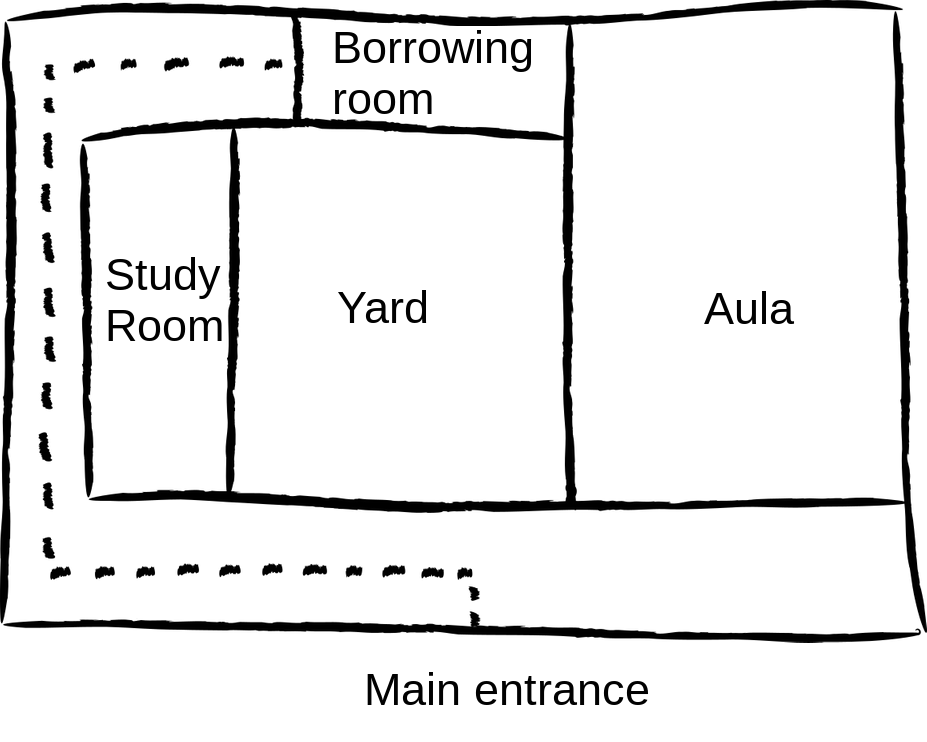
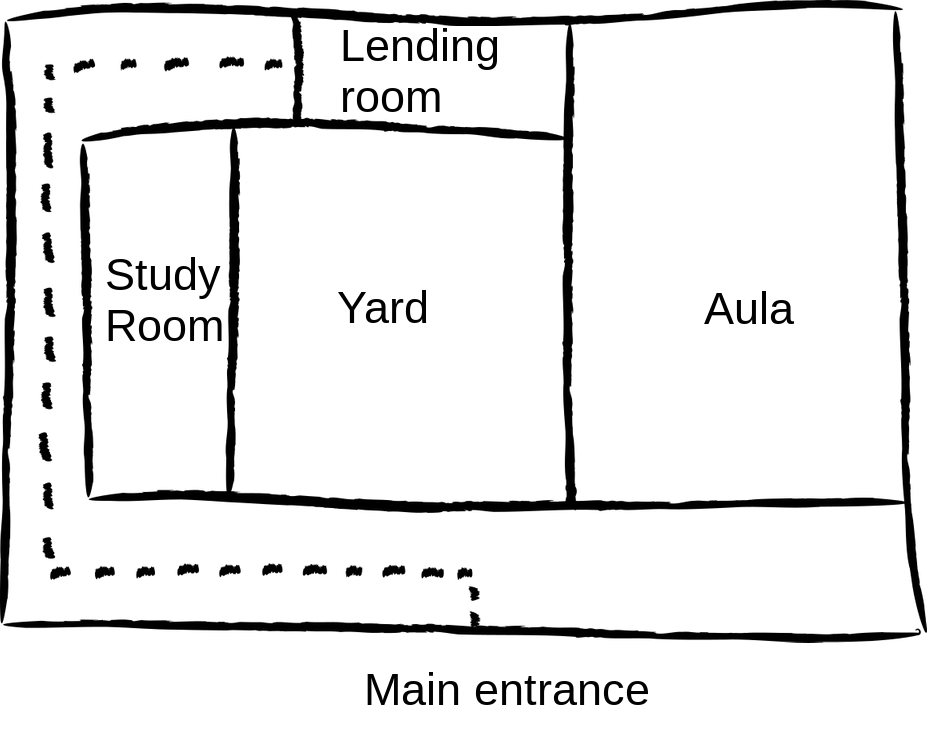
oprava borrow na lend

Changed region(s): [[0.3625, 0.031, 0.5739, 0.155]]

diff --git a/2022/letacek-en.tex b/2022/letacek-en.tex
@@ -28,7 +28,7 @@ library.cuni.cz/e-application/.
 After submitting this application form, you will have access to all libraries at Charles University!
 
 \ikonka{\faBook}
-\section{Borrowing and returning }
+\section{Lending and returning }
 
 % Většinu knih máme ve skladu, ale připravujeme je obratem.
 Most of the books are kept in our storage room, but we prepare them promptly.
@@ -189,7 +189,7 @@ materials.
 \section{Where can you find us}
 
 \vskip 1em
-\smallsection{Borrowing and Study Room in the main building of the Faculty}
+\smallsection{Lending and Study Room in the main building of the Faculty}
 
 % Těšíme se na~vás v přízemí hlavní budovy Pedagogické fakulty
 % na~adrese 
@@ -235,7 +235,7 @@ Celetná 13, Prague 1, in the attic.
 \begin{tabular}{@{}ll@{}}
   E-mail:& \url{knihovna@pedf.cuni.cz}\\
 
-  Borrowing service:& 221\,900\,148\\
+  Lending services:& 221\,900\,148\\
   Study Room:& 221\,900\,178\\
   Study Room Celetná:& 221\,900\,759\\
   Facebook: & \url{@knihovnapedfpraha}\\
@@ -247,7 +247,7 @@ Celetná 13, Prague 1, in the attic.
 \vskip 1em
 \section{Opening Hours}
 
-\smallsection{Borrowing Room in M. Rettigové}
+\smallsection{Lending Room in M. Rettigové}
 
 \begin{tabular}{@{}ll}
   Mo--Fri & 9:00 -- 17:00\\
